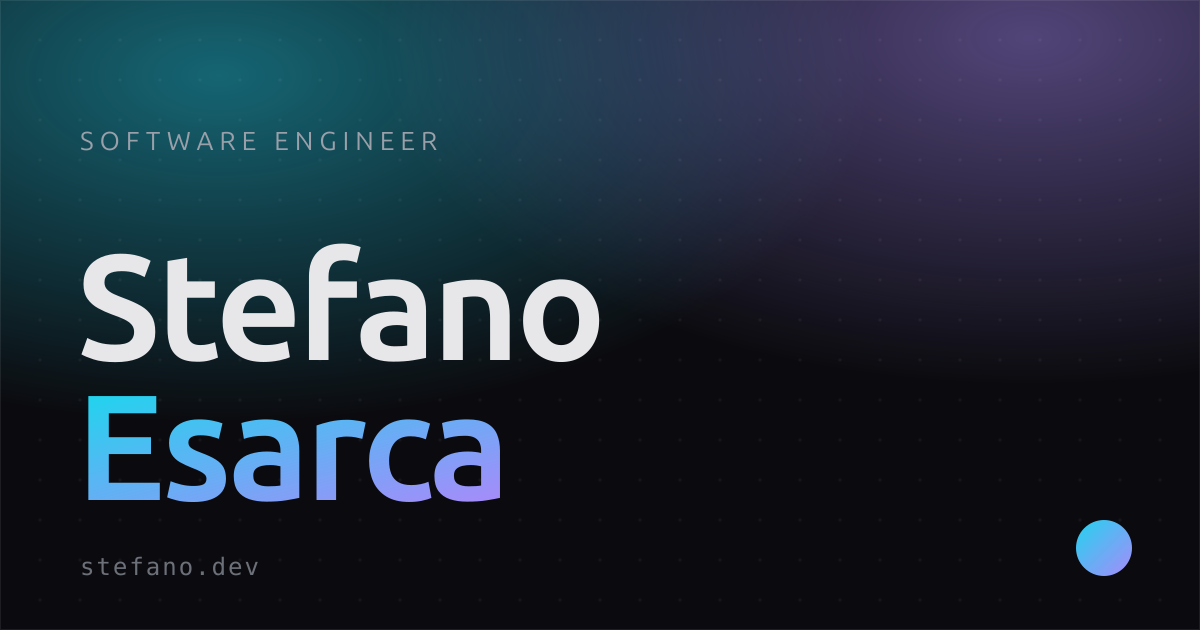
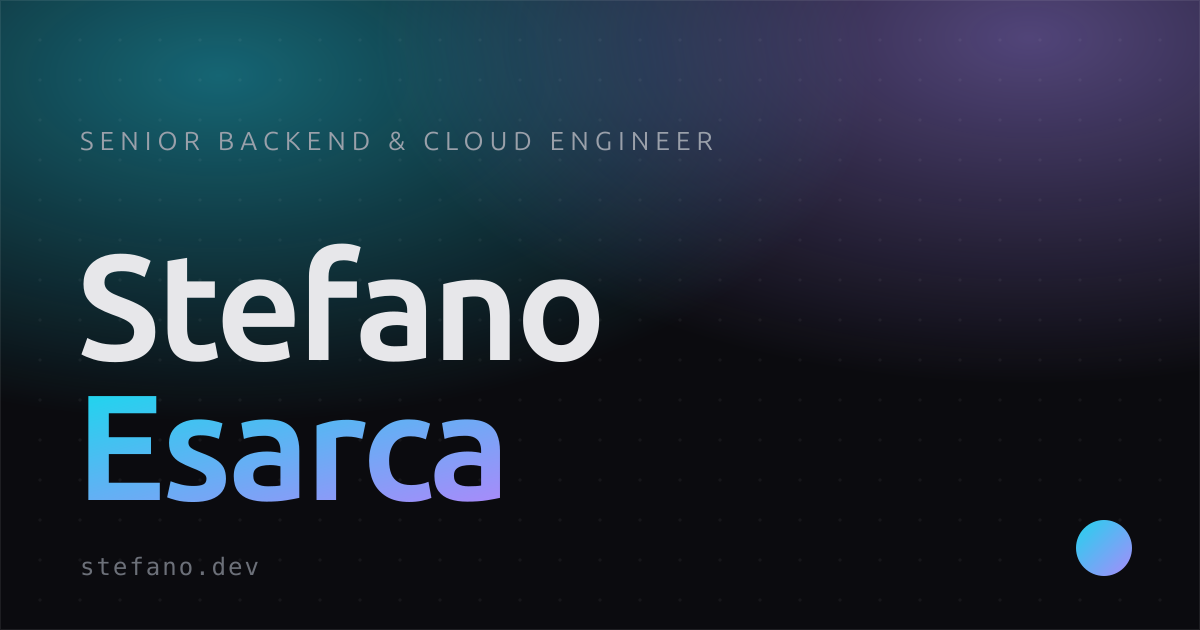
Fill site content from CV
Replace placeholder copy in src/data/* with real profile, projects,
experience, and stack. Update OG role text and regenerate og.png.

Changed region(s): [[0.0617, 0.2111, 0.5858, 0.2413]]

diff --git a/src/data/projects.ts b/src/data/projects.ts
@@ -18,42 +18,36 @@ export interface Project {
 
 export const projects: Project[] = [
   {
-    title: "Meterphase",
-    period: "2025",
+    title: "Industrial Telemetry Alerting Engine",
+    period: "2024 · ~4 months",
     blurb:
-      "A usage-metering and billing engine that turns raw event streams into invoices.",
+      "Full replacement of a legacy on-prem alerting system that could no longer handle the volume.",
     detail:
-      "Designed the ingestion pipeline and aggregation model, cutting end-of-month billing runs from hours to seconds while keeping every number auditable back to the source event.",
-    tags: ["Rust", "Postgres", "Kafka", "gRPC"],
-    links: [
-      { label: "Case study", href: "#" },
-      { label: "Source", href: "https://github.com/stefarca" },
-    ],
+      "Designed and built entirely solo, from scratch to production in about four months. Processes over 1,000 events per minute from around 30 production lines via Azure Service Bus, with 100–200 ms from ingestion to notification and Redis holding application state at low latency under load. Plant managers configure alert conditions, notification channel and delay per rule; shop-floor operators are notified via web push and Wear OS smartwatches, so they can act on the line without returning to a workstation.",
+    tags: [".NET", "Azure Service Bus", "Redis", "Container Apps"],
+    links: [],
     featured: true,
   },
   {
-    title: "Halflight",
-    period: "2024",
+    title: "Global Service Management Platform",
+    period: "2017 — present · technical owner",
     blurb:
-      "An open-source status-page generator that builds from a single YAML file.",
+      "Business-critical web application covering the full lifecycle of installed machines, used worldwide.",
     detail:
-      "Built the static generator and incident timeline. Ships as a 40 kB page with no runtime JavaScript and deploys to any static host in one command.",
-    tags: ["TypeScript", "Astro", "Cloudflare", "SVG"],
-    links: [
-      { label: "Live demo", href: "#" },
-      { label: "Source", href: "https://github.com/stefarca" },
-    ],
+      "Technical owner of a system spanning installation, maintenance contracts, field service, spare parts, quotes and decommissioning, feeding the downstream billing system — over a thousand uses per day. Started with two developers and a manager acting as intermediary; today I'm the sole technical point of reference, with the business reaching out directly. Migrated the legacy codebase from Java 6 to Java 11 with no service interruption, across nine years of continuous evolution.",
+    tags: ["Java 11", "Struts", "DB2"],
+    links: [],
     featured: true,
   },
   {
-    title: "Cranefold",
-    period: "2023",
+    title: "CI/CD on Azure DevOps",
+    period: "Ongoing",
     blurb:
-      "A generative-art experiment that grows origami crease patterns in the browser.",
+      "Introduced pipelines that took releases from one every 3–4 weeks to one per week per application.",
     detail:
-      "A weekend project that got out of hand: a constraint solver for flat-foldability rendered on canvas, with exports you can actually print and fold.",
-    tags: ["Canvas", "WebGL", "Geometry"],
-    links: [{ label: "Play", href: "#" }],
+      "Built and now manage 6–7 Azure DevOps pipelines. Brought test coverage up to around 80% on codebases that previously had none, with xUnit, Moq and Testcontainers, plus Serilog, OpenTelemetry and Dynatrace for observability.",
+    tags: ["Azure DevOps", "xUnit", "Testcontainers", "OpenTelemetry"],
+    links: [],
     featured: true,
   },
 ];

diff --git a/src/data/profile.ts b/src/data/profile.ts
@@ -28,21 +28,21 @@ export interface Profile {
 
 export const profile: Profile = {
   name: "Stefano Esarca",
-  role: "Software engineer",
-  location: "Turin, Italy",
+  role: "Senior Backend & Cloud Engineer",
+  location: "Godega di Sant'Urbano (TV), Italy",
   pitch:
-    "I build reliable backend systems and the calm, precise interfaces that sit on top of them.",
+    "I design and build cloud-native backends in .NET and Azure — event-driven systems taken solo from requirements analysis to production.",
   about: [
-    "I'm a software engineer with around a decade of experience taking products from a whiteboard sketch to something people depend on every day. Most of my work lives in the space between a well-modelled database and an interface that feels effortless.",
-    "I care about the parts users never see: clear data models, honest error handling, tests that fail for the right reasons, and deploys that are boring on purpose. Lately that has meant a lot of TypeScript and Rust, Postgres, and running things at the edge.",
-    "Outside of work I tinker with generative art, fold too many paper cranes, and maintain a couple of small open-source tools.",
+    "For nearly nine years I've been the technical reference point for a multinational industrial group, working across two divisions and two technology stacks. I design and build cloud-native backends in .NET and Azure, and I'm the technical owner of a business-critical Java application used every day around the world.",
+    "More than six systems I've delivered single-handedly, from requirements analysis through to production release, with no intermediary between me and the client. I run the analysis directly with the client's service business leads in Sweden, define the technical solution, and guide the other developers through code review and hands-on support.",
+    "I care about event-driven architecture that stays observable under load, legacy integrations that don't break, on-prem-to-cloud migrations with no downtime, and test coverage on code that never had any. Currently working with .NET 10, Azure Container Apps, Service Bus and Redis.",
   ],
   now: [
-    "Building a usage-metering pipeline for a SaaS platform",
-    "Learning shader programming, badly and happily",
-    "Open to interesting freelance and full-time work",
+    "Tech lead and technical owner across two stacks at Job Informatica, primary account Electrolux",
+    "Running a .NET / Azure telemetry alerting engine in production — 1,000+ events per minute from ~30 production lines",
+    "Looking for a role with more architectural responsibility at a product company — remote or on-site in Veneto",
   ],
-  email: "hello@stefano.dev",
+  email: "stefano.esarca@outlook.com",
   // Drop a PDF in /public and set this to e.g. "/stefano-esarca-cv.pdf".
   // Left null so the résumé button stays hidden until the file exists.
   resume: null,
@@ -54,13 +54,13 @@ export const profile: Profile = {
     },
     {
       label: "LinkedIn",
-      handle: "in/stefano-esarca",
-      href: "https://www.linkedin.com/in/stefano-esarca/",
+      handle: "in/esarcastefano",
+      href: "https://www.linkedin.com/in/esarcastefano/",
     },
     {
       label: "Email",
-      handle: "hello@stefano.dev",
-      href: "mailto:hello@stefano.dev",
+      handle: "stefano.esarca@outlook.com",
+      href: "mailto:stefano.esarca@outlook.com",
     },
   ],
 };

diff --git a/src/data/experience.ts b/src/data/experience.ts
@@ -15,27 +15,11 @@ export interface Job {
 
 export const experience: Job[] = [
   {
-    role: "Senior Software Engineer",
-    org: "Northwind Labs",
-    start: "2022",
+    role: "Senior Backend & Cloud Engineer",
+    org: "Job Informatica",
+    start: "2017",
     end: "Present",
     summary:
-      "Lead engineer on the data platform: billing, metering, and the internal APIs the rest of the product builds on.",
-  },
-  {
-    role: "Software Engineer",
-    org: "Fathom Interactive",
-    start: "2019",
-    end: "2022",
-    summary:
-      "Shipped customer-facing features across a React front end and a Node/Postgres back end for a mid-size analytics product.",
-  },
-  {
-    role: "Full-stack Developer",
-    org: "Studio Ampersand",
-    start: "2016",
-    end: "2019",
-    summary:
-      "Agency work: built and maintained a dozen client sites and web apps, from CMS integrations to a small e-commerce platform.",
+      "Technical reference point for a global appliance manufacturer (Electrolux) across two divisions and two technology stacks. Joined as a developer on assigned projects; scope grew to requirements analysis run directly with the client's service business leads in Sweden, autonomous architecture on owned projects, and code review and guidance for 2–3 developers. More than six systems delivered single-handedly from analysis to production; introduced Azure DevOps CI/CD, moving releases from once every 3–4 weeks to weekly per application.",
   },
 ];

diff --git a/src/data/stack.ts b/src/data/stack.ts
@@ -10,18 +10,50 @@ export interface StackGroup {
 export const stack: StackGroup[] = [
   {
     label: "Languages",
-    items: ["TypeScript", "Rust", "Go", "Python", "SQL"],
+    items: ["C#", "Java", "TypeScript", "SQL"],
   },
   {
-    label: "Frameworks",
-    items: ["Astro", "React", "Node.js", "Axum", "SvelteKit"],
+    label: "Backend",
+    items: [
+      ".NET",
+      "ASP.NET Core Web API",
+      "Entity Framework Core",
+      "REST",
+      "GraphQL",
+      "Struts",
+    ],
   },
   {
-    label: "Infrastructure",
-    items: ["Postgres", "Redis", "Kafka", "Docker", "Cloudflare", "AWS"],
+    label: "Cloud & DevOps (Azure)",
+    items: [
+      "Service Bus",
+      "Event Grid",
+      "Container Apps",
+      "Azure SQL",
+      "Redis Cache",
+      "Blob & Queue Storage",
+      "Key Vault",
+      "DevOps Pipelines",
+      "Docker",
+    ],
   },
   {
-    label: "Tooling",
-    items: ["Vite", "Playwright", "Grafana", "Terraform", "GitHub Actions"],
+    label: "Quality & observability",
+    items: [
+      "xUnit",
+      "Moq",
+      "Testcontainers",
+      "Serilog",
+      "OpenTelemetry",
+      "Dynatrace",
+    ],
+  },
+  {
+    label: "Frontend & mobile",
+    items: ["React", "React Native", "Wear OS"],
+  },
+  {
+    label: "Databases",
+    items: ["Azure SQL", "DB2", "Oracle", "Redis"],
   },
 ];

diff --git a/src/data/site.ts b/src/data/site.ts
@@ -5,9 +5,9 @@
 export const site = {
   url: "https://stefano.dev",
   title: "Stefano Esarca",
-  tagline: "Software engineer",
+  tagline: "Senior Backend & Cloud Engineer",
   description:
-    "Stefano Esarca — software engineer building reliable backends and thoughtful interfaces for the web.",
+    "Stefano Esarca — Senior Backend & Cloud Engineer building cloud-native systems in .NET and Azure, and technical owner of a business-critical Java platform.",
   locale: "en",
   ogImage: "/og.png",
   themeColor: "#0b0b0f",
